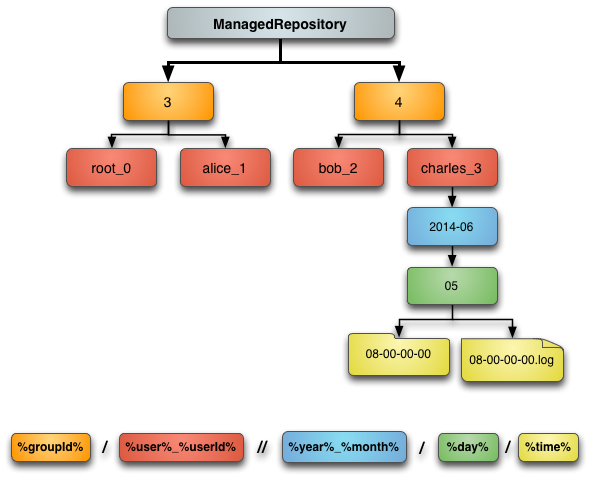
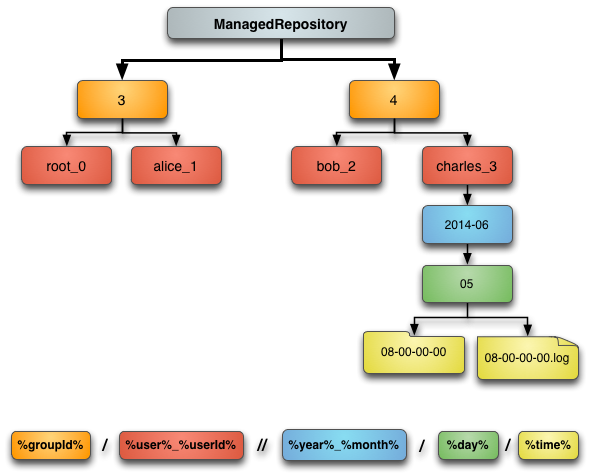
Revise samba share diagrams.

diff --git a/2014/fs-workshop-paris/index.html b/2014/fs-workshop-paris/index.html
@@ -738,7 +738,26 @@ omero.fs.repo.path=<b style="font-size: 115%">%user%_%userId%//%year%-%month%/%d
           <section>
             <h3>Samba</h3>
             <img alt="Samba usage diagram"
-                src="diagrams/samba.png" width="100%"/>
+                src="diagrams/samba_group.png" width="75%"/>
+            <aside class="notes">
+              <p>
+                For example, depending on the template, each
+                user can be access to his/her directory via
+                SAMBA. (Requires mapping at the OS level,
+                yadda yadda yadda).
+              </p>
+              <p>
+                Here we've taken the same layout as for the quotas,
+                put mounted each directory as samba share. Read/write
+                permissions can be set based on the group's needs.
+              </p>
+            </aside>
+          </section>
+
+          <section>
+            <h3>Samba</h3>
+            <img alt="Samba usage diagram"
+                src="diagrams/samba_user.png" width="75%"/>
             <aside class="notes">
               <p>
                 For example, depending on the template, each
